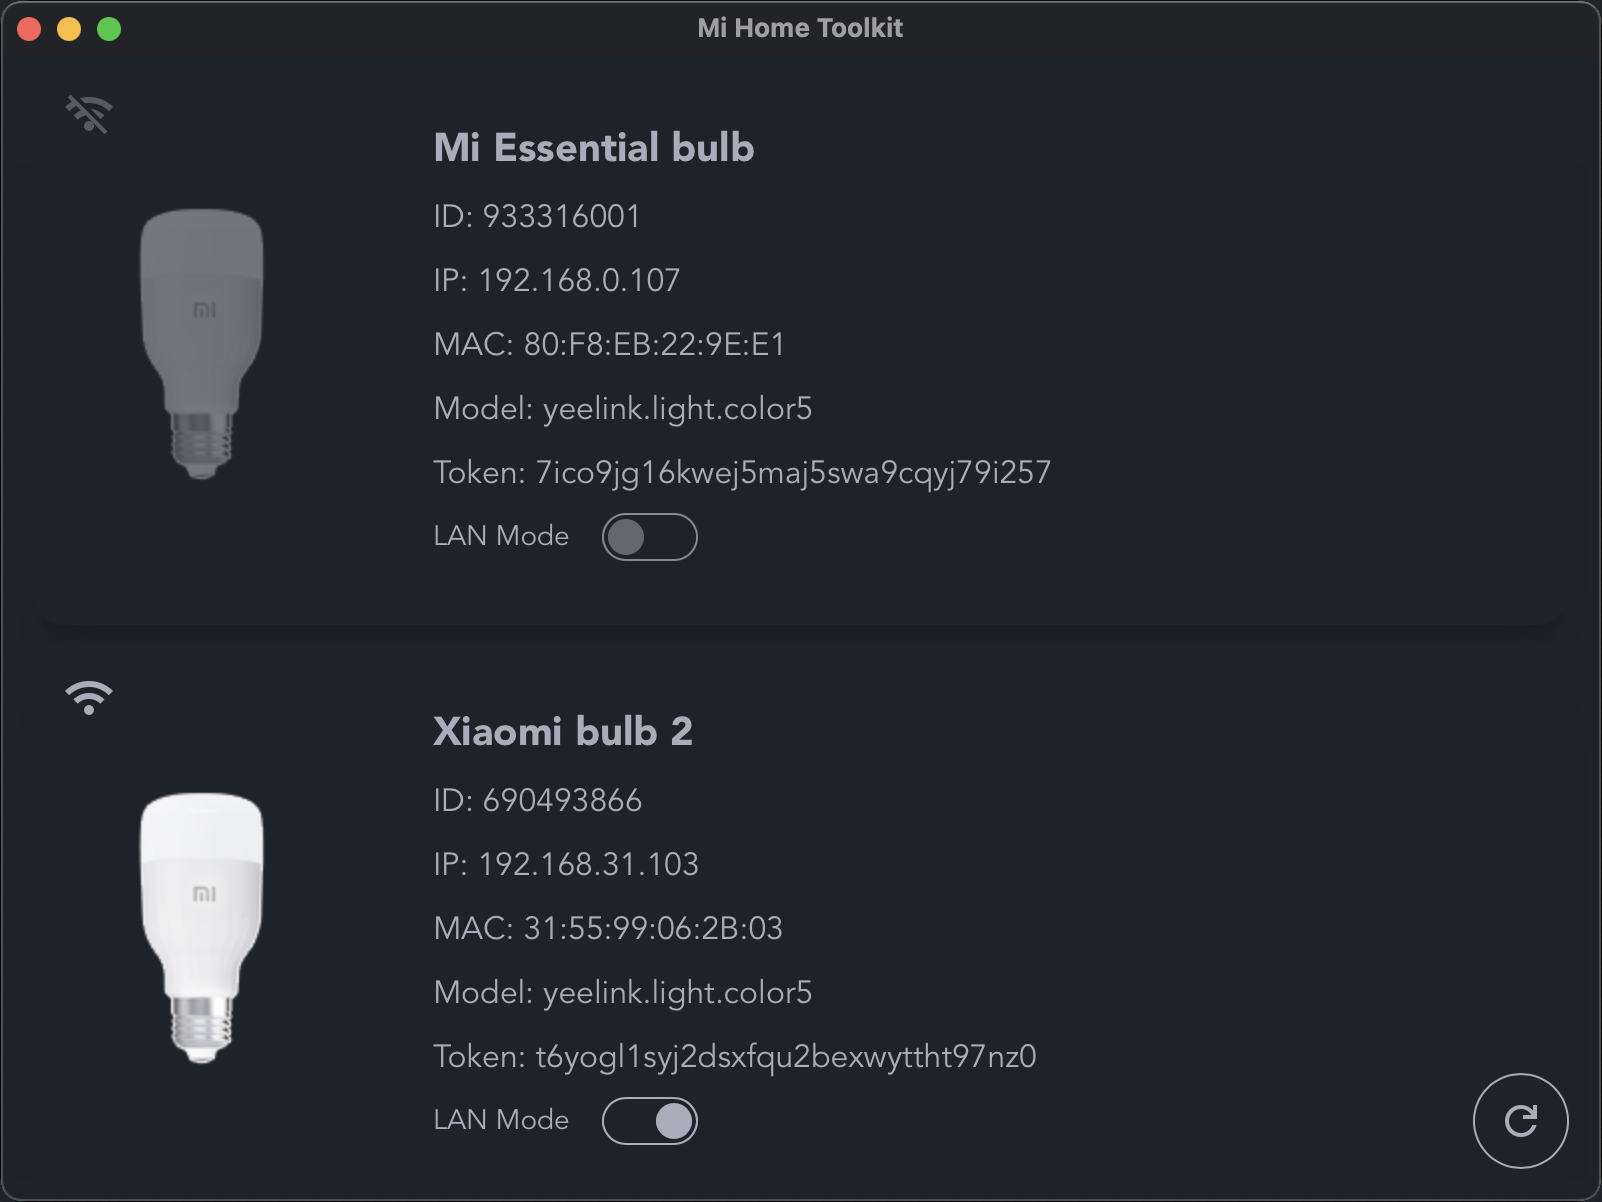
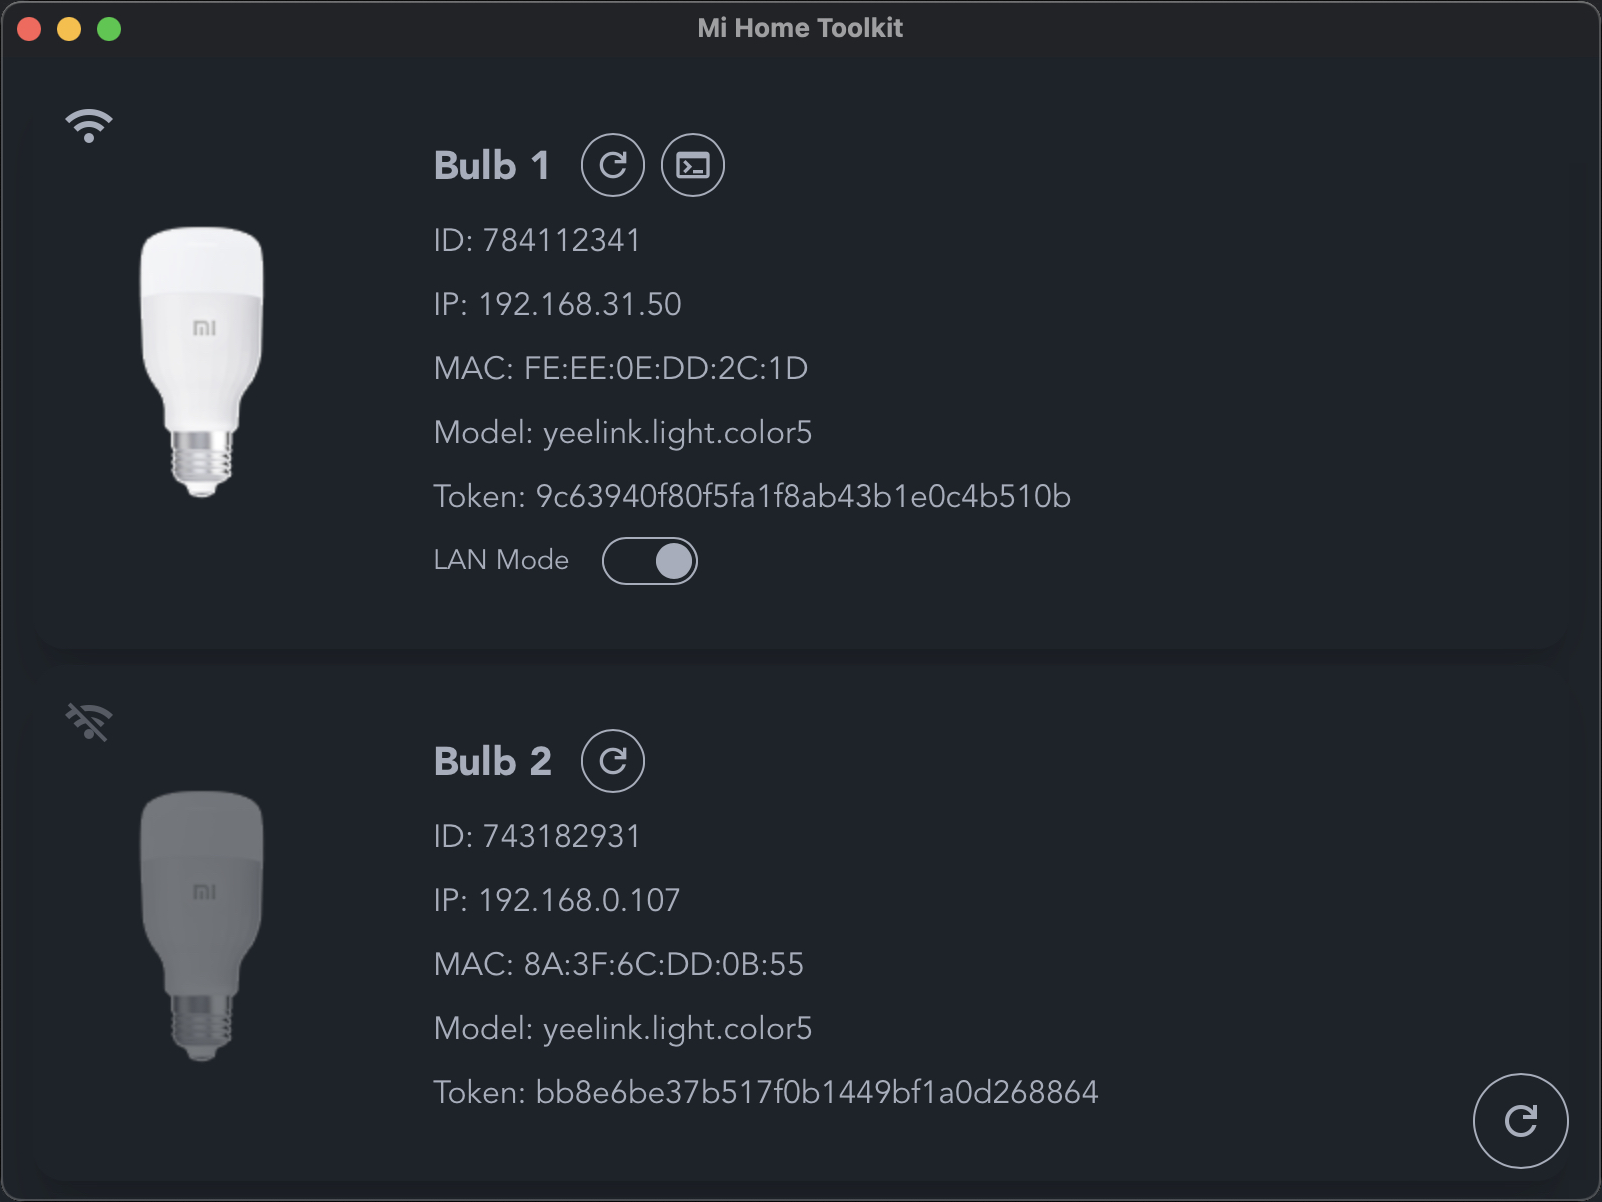
v1.1.0

diff --git a/README.md b/README.md
@@ -11,6 +11,7 @@ A versatile tool for managing Mi Home smart devices.
 
 - View device information, such as `token`, `ip`, `did`
 - Enable LAN mode for bulbs
+- Execute device commands
 
 ## Usage
 
@@ -21,6 +22,7 @@ A versatile tool for managing Mi Home smart devices.
 ### 2. Use the app
 
 ![Devices screen](.github/images/devices-screen.png)
+![Execute command](.github/images/execuse-command.png)
 
 ## Download
 
